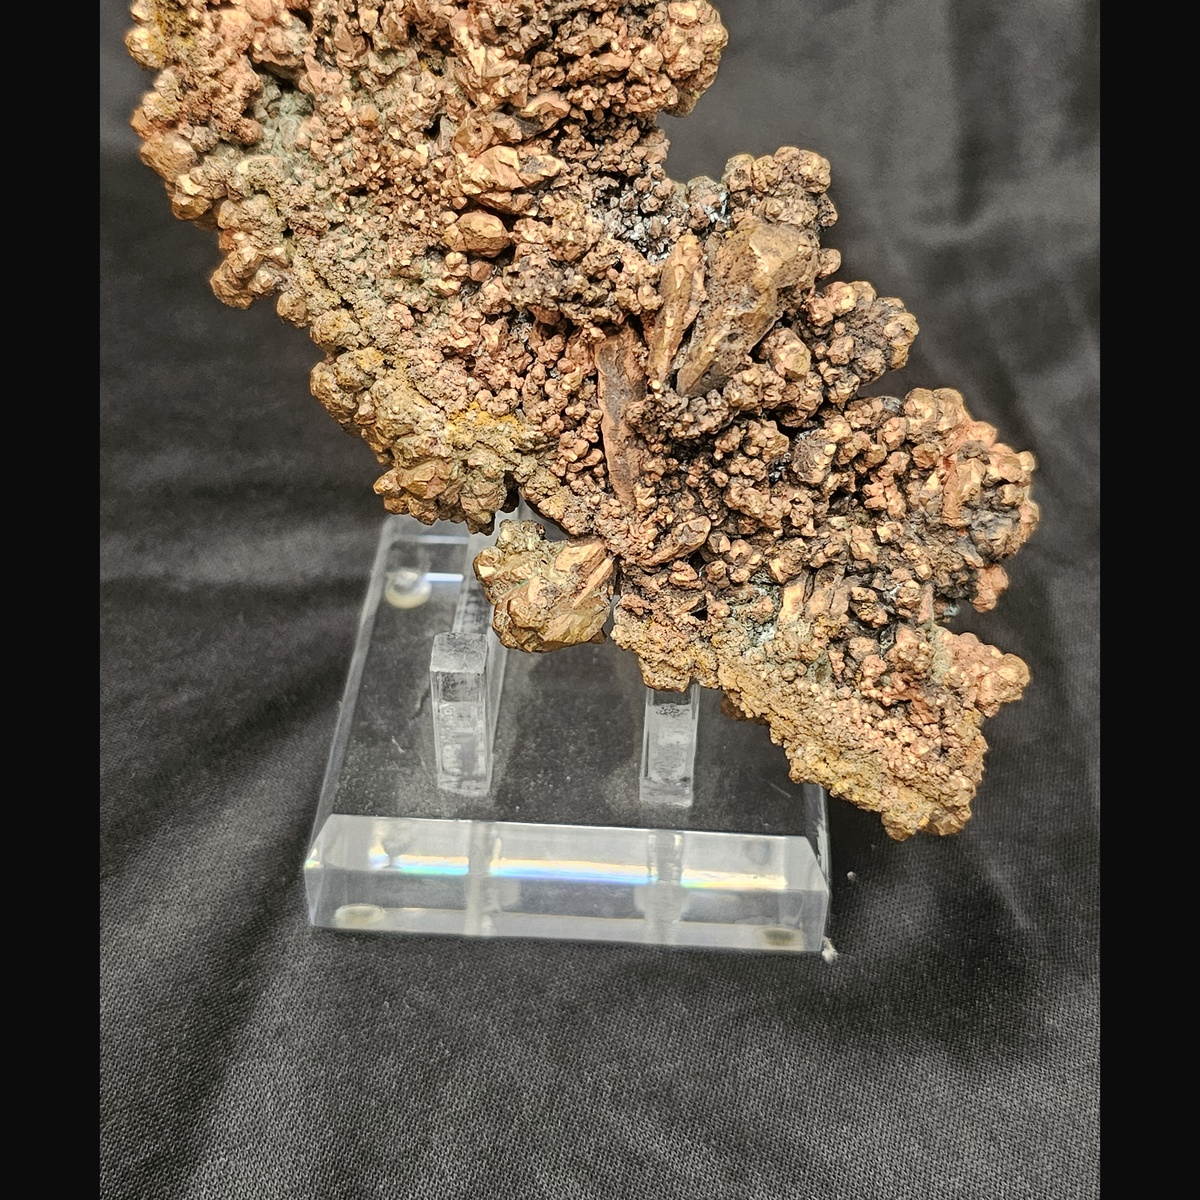
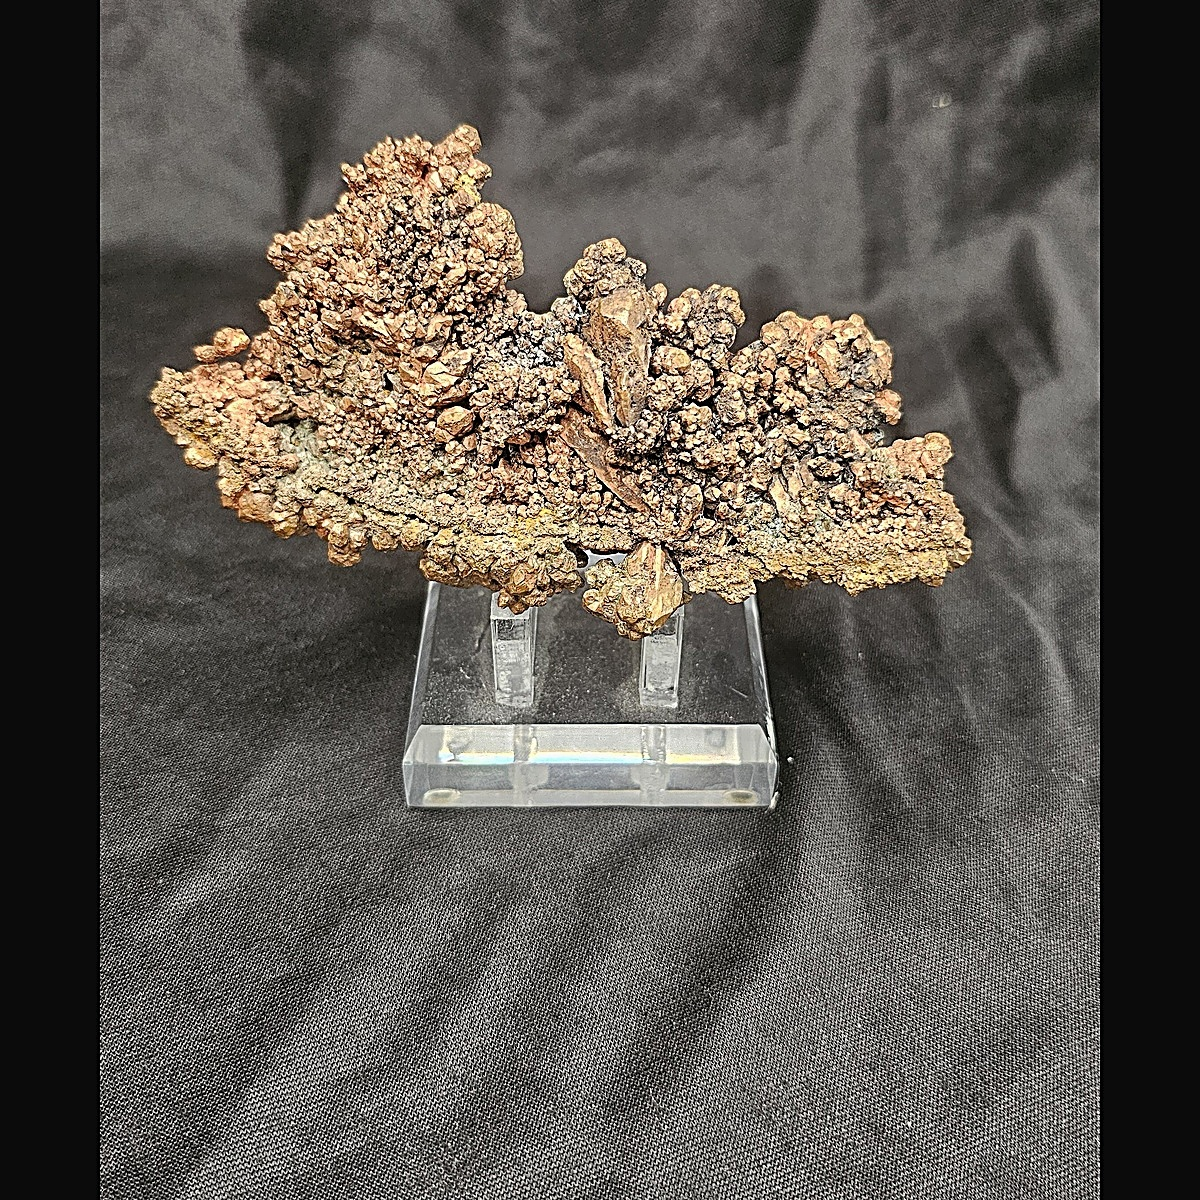
fix: parse prices with $ and commas, replace cupr-002 with better angle
- Strip $, commas from Sheet price before parseFloat (was returning NaN)
- Replace cupr-002.jpg with angle 172308 (wider shot, full specimen visible)

diff --git a/src/lib/google-sheets.ts b/src/lib/google-sheets.ts
@@ -46,7 +46,9 @@ interface SheetRow {
 }
 
 function rowToSpecimen(row: SheetRow): Specimen {
-  const price = row.price ? parseFloat(row.price) : undefined;
+  const price = row.price
+    ? parseFloat(row.price.replace(/[$,]/g, ""))
+    : undefined;
   const availability = (row.availability?.toLowerCase().replace(/ /g, "-") || "available") as
     | "available"
     | "sold"
